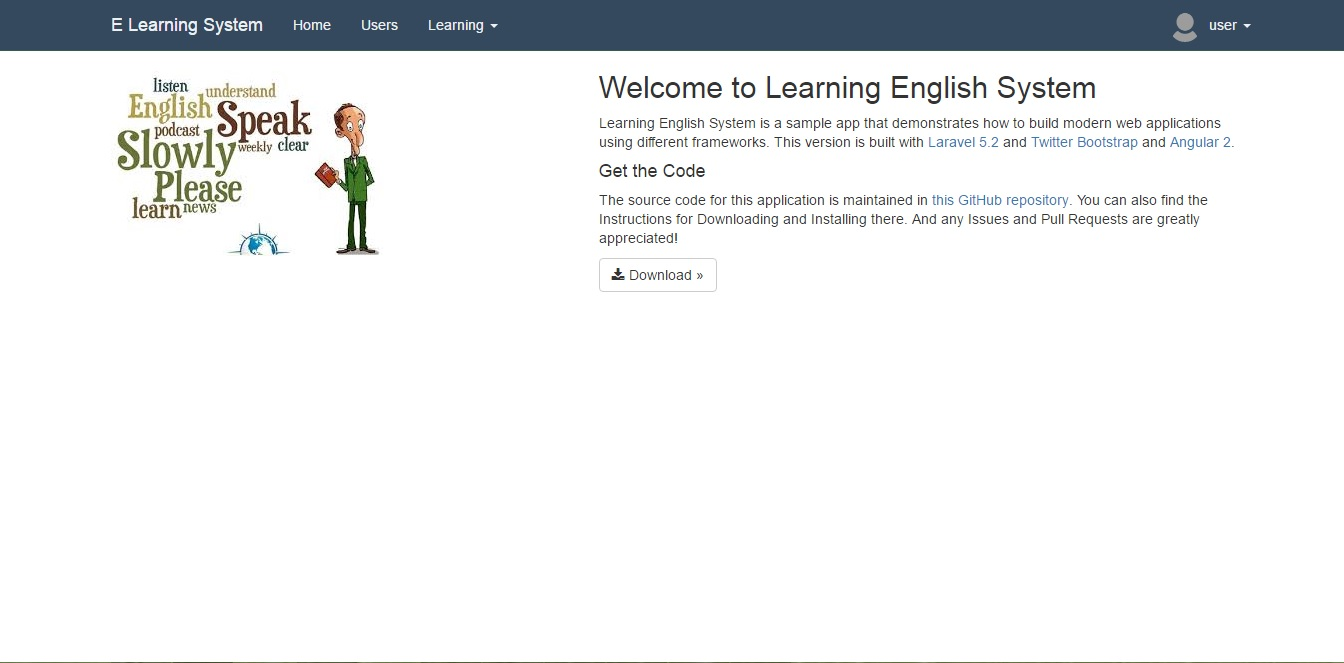
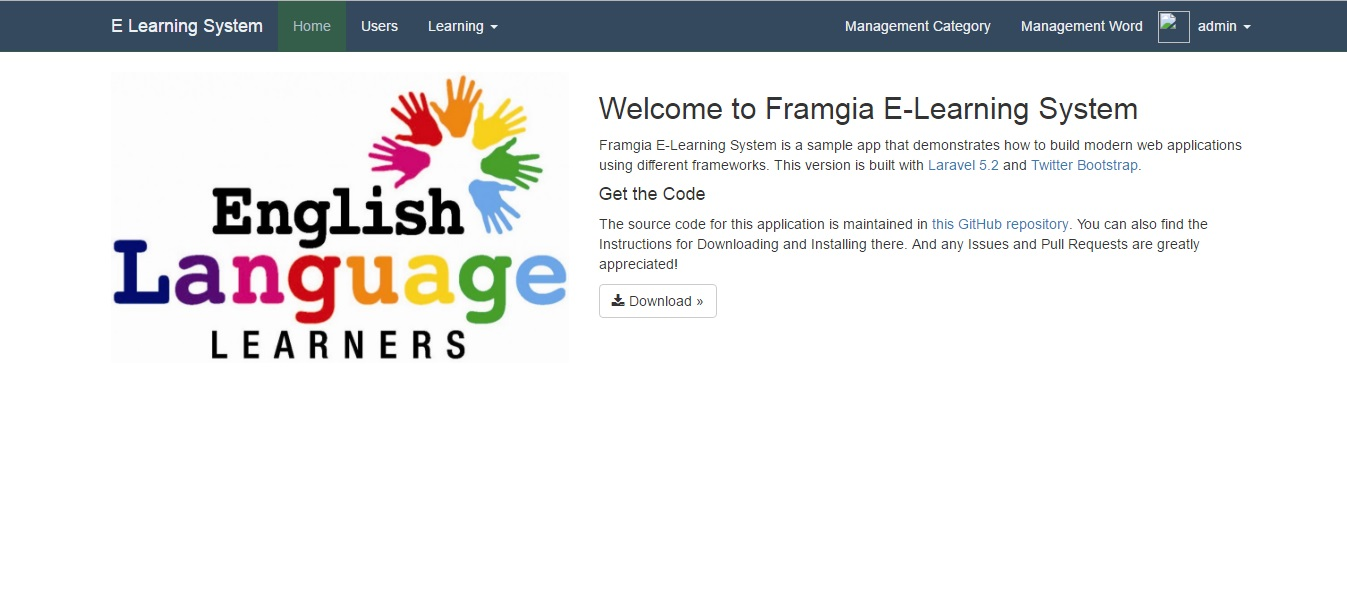
Upload Project Elearning

Changed region(s): [[0.0, 0.0, 1.0, 0.5889], [0.0, 0.9918, 1.0, 1.0]]

diff --git a/HK/README.md b/HK/README.md
@@ -1,5 +1,5 @@
 #HK's team project
-##Đề tài : Làm app trò chơi học ngoại ngữ bằng laravel kết hợp với angular 2 theo các kỹ năng 
+##Đề tài : Làm ứng dụng làm các bài trắc nghiệm tiếng anh bằng framework laravel .
 ##Thành Viên Nhóm:
 -	Phạm Thị Hà
 -	Trịnh Thị Hiền
@@ -21,16 +21,19 @@ https://demoeleaningsystem.herokuapp.com/
 - Tokenizer PHP Extension...
 
 ### Mô tả ngắn gọn: 
-- Ứng dụng E-Learning được viết bằng framework Laravel 5.2 xử lí bên back-end kết hợp với Angular 2 xử lí phần frontend
-- Ứng dụng đã được nhóm đẩy code lên heroku để mọi người có thể sử dụng thử.Sản phẩm đang trong quá trình fix bug và hoàn thiện.
+- Ứng dụng E-Learning được viết bằng framework Laravel 5.2 giúp cho người dùng có thể làm các bài trắc nghiệm tiếng anh.
+- Ứng dụng đã được nhóm đẩy code lên heroku để mọi người có thể sử dụng thử.Sản phẩm đang trong quá trình hoàn thiện và phát triển.
 
 ## Giới thiệu ứng dụng E-Learning
+
+Sau đây nhóm sẽ trình bày về các chức năng cũng như cách sử dụng của ứng dụng E-Learning.
 
 ### Trang Login , Logout và Register
 - Ứng dụng cho phép user đăng nhập vào hệ thống khi đã đăng kí tài khoản
 - Login:
-    + Tại giao diện login, người dùng điền các thông tin mà trước đó đã đăng kí bao gồm email và password.Nếu nhập đúng sẽ được chuyển tiếp tới trang chủ của hệ thống. Sai sẽ yêu cầu nhập lại.
-- Logout: sau khi đăng nhập người dùng có thể đăng xuất khỏi hệ thống thông qua việc click vào avatar và chọn logout. khi đó người dùng sẽ đăng xuất khỏi hệ thống.
+    + Tại giao diện login, người dùng điền các thông tin mà trước đó đã đăng kí bao gồm email và password.Nếu nhập đúng hệ thống sẽ chuyển tiếp tới trang chủ của ứng dụng. Sai sẽ yêu cầu nhập lại.
+    Đối với tài khoản người dùng là admin, đã được tạo sẵn trong cơ sở dữ liệu. Để đăng nhập với tư cách là admin, mọi người có thể nhập vào với email là admin@gmail.com và pass là 123456.
+- Logout: sau khi đăng nhập người dùng có thể đăng xuất khỏi hệ thống thông qua việc click vào thông tin tài khoản và chọn logout. khi đó người dùng sẽ đăng xuất khỏi hệ thống.
 
 Dưới đây lần lượt là ảnh giao diện của Register, Login
 
@@ -44,34 +47,68 @@ Dưới đây lần lượt là ảnh giao diện của Register, Login
 ![Home](https://github.com/truonganhhoang/int3507-2016/blob/master/HK/images/Home.jpg)
 
 - Khi đã đăng nhập thành công , trang chủ của ứng dụng hiện ra cho phép
-    + Đối với người dùng là user có thể làm các bài trắc nghiệm (lesson), xem lại các bài đã học, có thể chọn các category theo các chủ đề để học và xem danh sách các word.
-    +Admin: ngoài các chức năng của user còn có thể quản lí / thêm các Category, word và có thể quản lí User ( follow hoặc unfollow)
+    + Đối với người dùng là user có thể làm các bài trắc nghiệm (lesson), xem lại các bài đã làm, có thể chọn các category để làm bài.
+    +Admin: ngoài các chức năng của user còn có thể quản lí / thêm các Category, word và có thể quản lí User ( follow hoặc unfollow, thêm sửa xóa phân quyền cho user)
 
-- Cả admin và user đều có thể xem thông tin cá nhân, cập nhật chỉnh sửa thông tin của mình và lịch sử hoạt động
+- Cả admin và user đều có thể xem thông tin cá nhân, cập nhật chỉnh sửa thông tin của mình: có thể thay đổi tên đăng nhập, email đã đăng kí, cập nhật avatar thay đổi password.
 
 -Dưới đây là một số giao diện của ứng dụng:
 
+## System
+
+Giao diện bắt đầu trước khi vào ứng dụng
+
+![System](https://github.com/truonganhhoang/int3507-2016/blob/master/HK/images/System.jpg)
+
 ## Profile
 
-![Profile](https://github.com/truonganhhoang/int3507-2016/blob/master/HK/images/profile.jpg)
+![Profile](https://github.com/truonganhhoang/int3507-2016/blob/master/HK/images/Profile.jpg)
 
 ##List User
 
-![List User](https://github.com/truonganhhoang/int3507-2016/blob/master/HK/images/user.jpg)
+![List User](https://github.com/truonganhhoang/int3507-2016/blob/master/HK/images/Users.jpg)
 
 ## List Categories
 
-![List Categories](https://github.com/truonganhhoang/int3507-2016/blob/master/HK/images/ListCategories.jpg)
+![List Categories](https://github.com/truonganhhoang/int3507-2016/blob/master/HK/images/Category.jpg)
+
+## Learnt
+
+Khi vào Learnt , người sử dụng có thể xem thông tin bài học đã học với lịch sử và kết quả bài làm và có thể view lại bài làm đó.
+
+![Learnt](https://github.com/truonganhhoang/int3507-2016/blob/master/HK/images/Learn.jpg)
+
+## Management Category, Word
+
+Đối với người dùng là admin có thêm chức năng quản lí các category, word. Tại đây admin có thể xem danh sách các category, word hiện có đồng thời cũng có thể add thêm các category, các câu hỏi cũng như chỉnh sửa, xóa chúng.
+
+![Management Categories](https://github.com/truonganhhoang/int3507-2016/blob/master/HK/images/ManagementCategory.jpg)
+
+![Management Word](https://github.com/truonganhhoang/int3507-2016/blob/master/HK/images/ManagementWord.jpg)
+
 
 ## Hướng dẫn sử dụng
 Có thể chạy test trực tiếp trên link heroku nhóm đã đính kèm trên project.Với tài khoản admin mặc định sẵn là admin@gmail.com và pass là 123456.
 Đối với người dùng là user có thể đăng kí trực tiếp tài khoản trên ứng dụng để sử dụng.
+Để làm bài test tiếng anh: 
+    - Chọn Learning 
+    - Chọn Catefory 
+    - Start lesson mà bạn muốn làm trong 1 category 
+Để xem điểm và view lại bài test mà bạn đã làm:
+    - Chọn Learning 
+    - Chọn Learnt 
 
-Còn nếu muốn biết chi tiết project hoạt động , viết ra sao có thể thực hiện như sau:
+Còn nếu muốn biết chi tiết project hoạt động , viết ra sao, chạy như thế nào có thể thực hiện như sau:
 Ngoài những yêu cầu cơ bản ở trên để chạy được ứng dụng cần làm các bước sau
-- Tải project về 
-- Cài đặt composer sau đó chạy composer update
-- Chạy npm install
-- Tạo file .env
-- Tạo database và chạy lệnh php artisan migrate để tạo cơ sở dữ liệu.
-- php artisan serve để chạy ứng dụng trên http://localhost:8000/
+- Tải project về tại: https://github.com/truonganhhoang/int3507-2016
+- Nếu máy chưa có composer cần cài đặt composer sau đó chạy "composer update" . Để biết được máy đã có composer chưa tại command line của thư mục project chạy : "composer -v".
+- Chạy lệnh "npm install --save-dev" để cài đặt các chương trình cần thiết cho project.
+- Do có nhiều thư mục rất nặng nên đã được cho vào file gitnore nên không hiển thị trên git vì vậy cần tạo thêm tạo file ".env". Trong đó cần sửa thông tin "DB_DATABASE" giống với tên bạn đã tạo cơ sở dữ liệu trên phpMyadmin.
+- Tạo database trên phpMyadmin và chạy lệnh "php artisan migrate " để tạo cơ sở dữ liệu.
+- Việc vài đặt cơ bản hoàn tất, tuy nhiên trong project này cần phải cài gulp để có thể dùng được boostrap, css và js đã không được đẩy lên project. Để cài , yêu cầu trước tiên cần là cài node- một chương trình để chạy các file javascript.
+Có thể tải node tại: https://nodejs.org/en
+Sau khi đã cài xong tiếp đến cài gulp bằng câu lệnh : "npm install --global gulp". Sau khi cài xong, chạy lệnh "gulp" để có thể dùng được boostrap, css ,js.
+Chi tiết xem tại: https://laravel.com/docs/5.2/elixir
+- Cuối cùng chạy "php artisan serve" để chạy ứng dụng trên http://localhost:8000/ hoặc có thể chạy trên localhost thông qua xampp.
+
+Để hiểu hơn về Laravel cũng như các vấn đề liên quan có thể xem tại https://laravel.com/docs/5.2/
